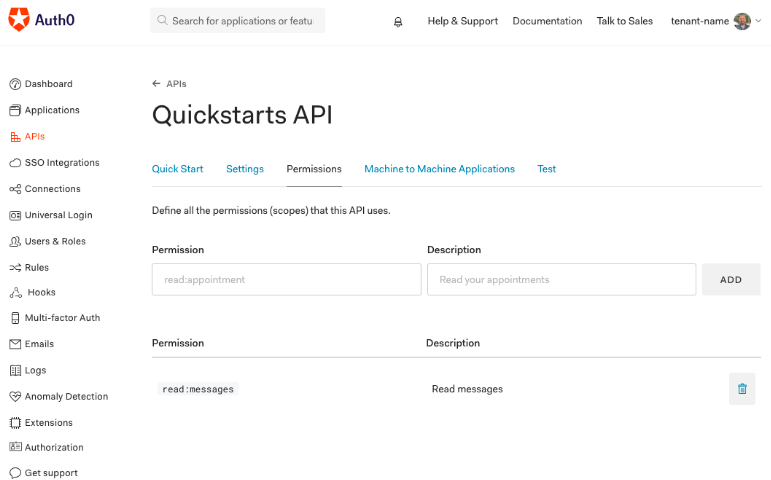
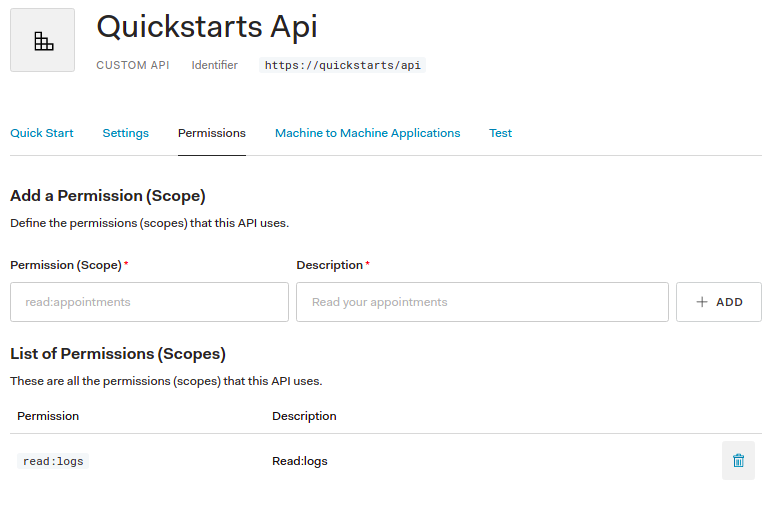
auth0 readme file updated...

diff --git a/collectors/auth0/README.md b/collectors/auth0/README.md
@@ -9,13 +9,22 @@ Template (CFT) for deploying a log collector in AWS which will poll Auth0 Logs s
 
 ### 1. How to obtain an API Secret Key and API ID
 
-1. In the APIs section of the Auth0 dashboard, click Create API.
-2. Provide a name and an identifier for your API, for example, https://quickstarts/api. You will use the identifier as an audience later, when you are configuring the Access Token verification. Leave the Signing Algorithm as RS256.
-![ScreenShot](./docs/auth0_2.png)
+1. In the APIs section of the Auth0 dashboard, click Create API.<br /><br />
+![ScreenShot](./docs/auth0_1.png)
+2. Provide a name and an identifier for your API, for example, https://quickstarts/api. You will use the identifier as an audience later, when you are configuring the Access Token verification. Leave the Signing Algorithm as RS256.<br /><br />
+![ScreenShot](./docs/auth0_2.png)<br /><br />
 3. Permissions let you define how resources can be accessed on behalf of the user with a given access token. For example, you might choose to grant read access to the messages resource if users have the manager access level, and a write access to that resource if they have the administrator access level.
-You can define allowed permissions in the Permissions tab of the Auth0 Dashboard's APIs section.
-![ScreenShot](./docs/auth0_3.png)
-4. On the Applications page of the Auth0 Dashboard, locate your Application and click its name to view the available settings. The generated client ID and client secret are found here.
+You can define allowed permissions in the Permissions tab of the Auth0 Dashboard's APIs section. <br /><br />
+![ScreenShot](./docs/auth0_3.png)<br /><br />
+4. In the APIs section of the Auth0 dashboard, click on Auth0 Management API.<br /><br /> 
+![ScreenShot](./docs/auth0_4.png)<br /><br />
+5. In Auth0 Management API click on Machine to Machine Applications.<br /><br />
+![ScreenShot](./docs/auth0_5.png)<br /><br />
+6. Authorize the application(which you are created) and select permissions read:logs.<br /><br />
+![ScreenShot](./docs/auth0_6.png)<br /><br />
+7. On the Applications page of the Auth0 Dashboard, locate your Application and click its name to view the available settings. The generated client ID and client secret are found here.<br /><br />
+![ScreenShot](./docs/auth0_7.png)<br /><br />
+![ScreenShot](./docs/auth0_8.png)<br /><br />
 
 ### 2. API Docs
 
